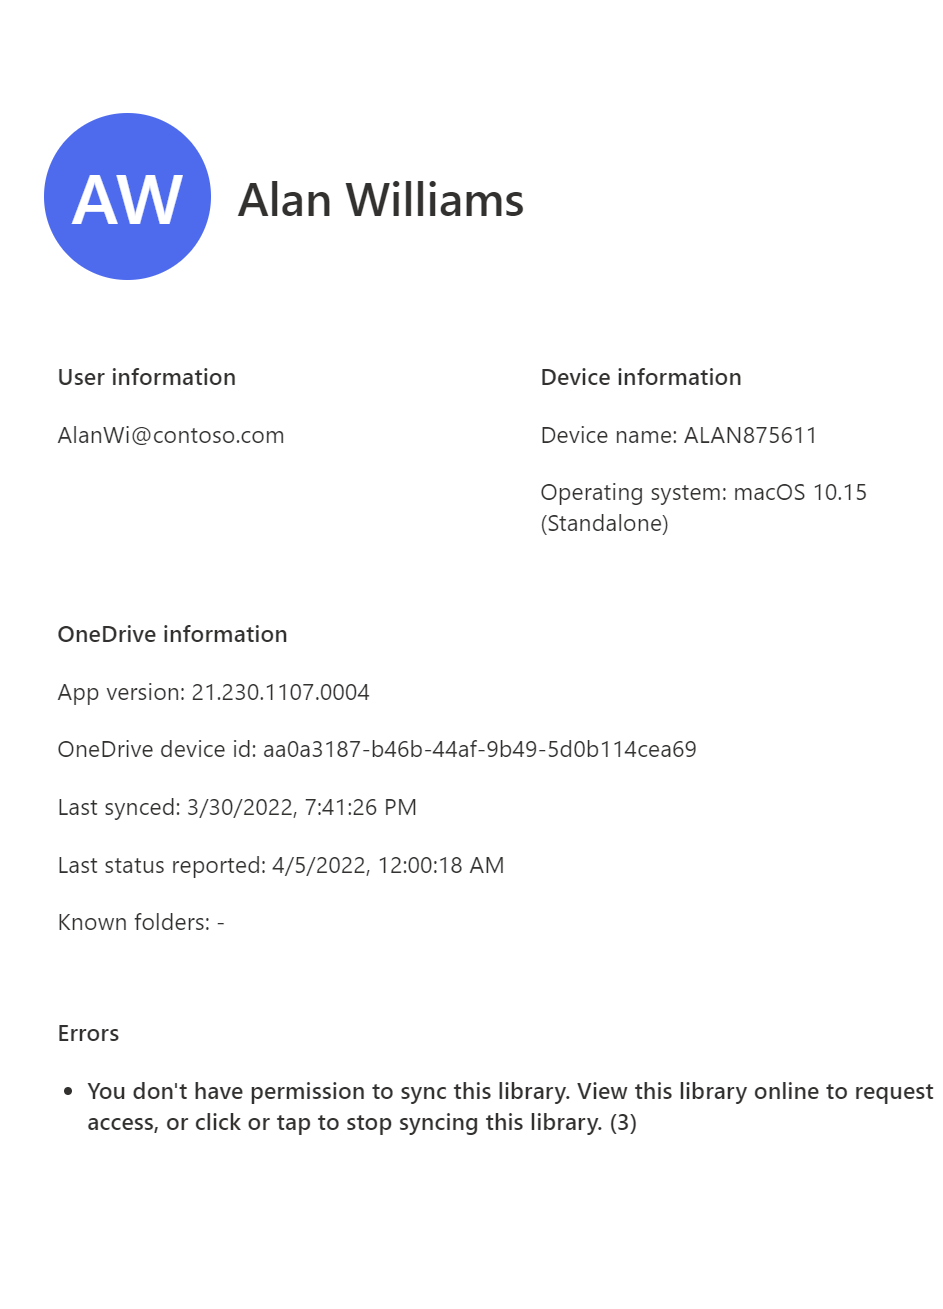
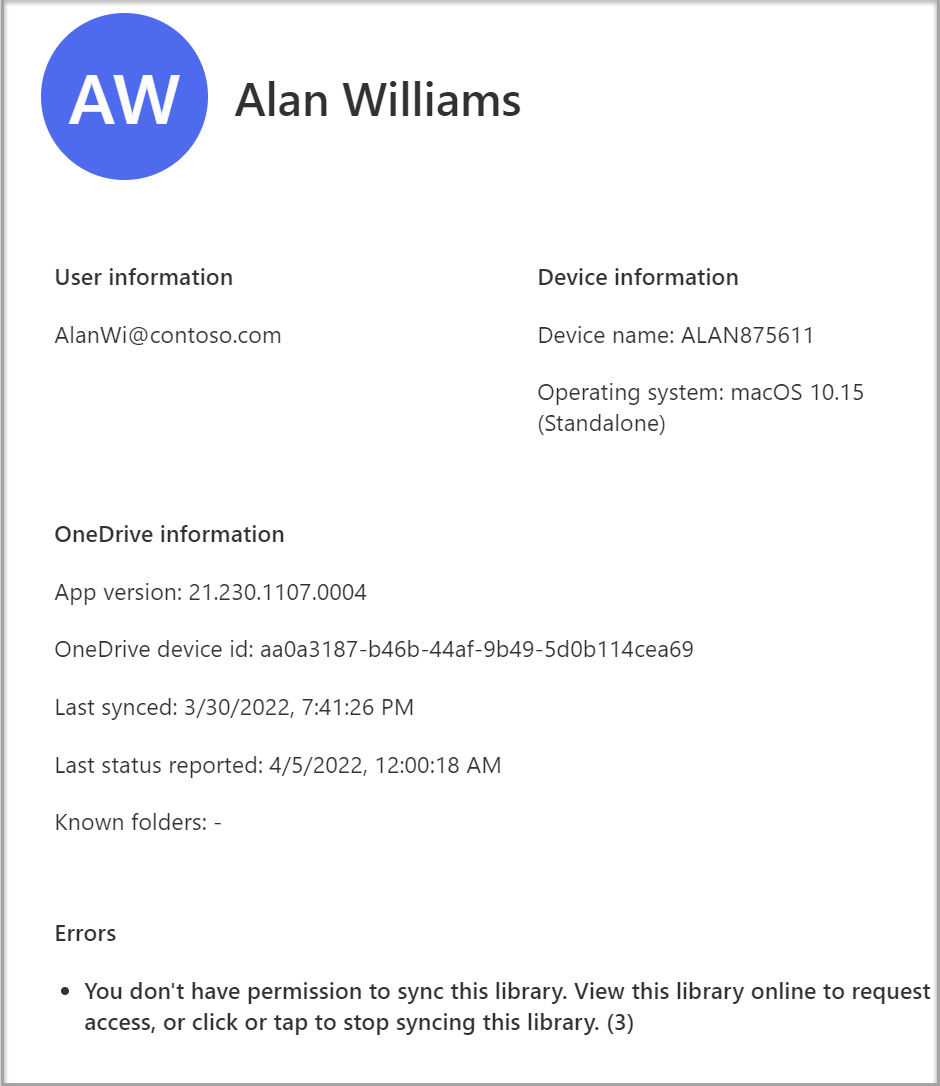
updated synchealth
Updating image sizes and reformatting details.

diff --git a/OneDrive/sync-health.md b/OneDrive/sync-health.md
@@ -73,13 +73,10 @@ This tab provides how-to steps for enabling sync reports on Windows devices.
 
     :::image type="content" source="media/enable-preview.png" alt-text="Screenshot of enable preview features button.":::
 
-    The OneDrive sync health dashboard appears.
-
-   :::image type="content" source="media/sync-home.png" alt-text="Screenshot of OneDrive sync health dashboard.":::
-
 5. Enable the OneDrive EnableSyncAdminReports Group Policy Object (GPO).
 
-    **You must enable this setting on the devices from which you want to get reports.** This setting has does not affect  users. We recommend a gradual rollout starting with a few test devices per day, then up to 100 devices per day, then gradually up to 10,000 devices per day until you finish.
+    > [!IMPORTANT]
+    > **You must enable this setting on the devices from which you want to get reports.** This setting has does not affect  users. We recommend a gradual rollout starting with a few test devices per day, then up to 100 devices per day, then gradually up to 10,000 devices per day until you finish.
 
     You can enable this setting in multiple ways:
 
@@ -111,10 +108,10 @@ This tab provides how-to steps for enabling sync reports on Windows devices.
 
     - Choose **Enable sync health reporting for OneDrive**.
 
-       > [!IMPORTANT]
-       > After you enable the EnableSyncAdminReports setting on devices, it takes up to three days for reports to be available.
-
     - Select **Enabled** and then press **OK**.
+
+> [!IMPORTANT]
+> After you enable the EnableSyncAdminReports setting on devices, it takes up to three days for reports to be available.
 
 # [macOS](#tab/macos)
 
@@ -129,10 +126,6 @@ This tab provides how-to steps for enabling sync reports on macOS devices.
 4. Select **Enable preview features** to accept the license terms.
 
     :::image type="content" source="media/enable-preview.png" alt-text="Screenshot of enable preview features button.":::
-
-    The OneDrive sync health dashboard appears.
-
-   :::image type="content" source="media/sync-home.png" alt-text="Screenshot of OneDrive sync health dashboard.":::
 
 5. In the left navigation menu, select **Settings**.
 
@@ -155,6 +148,9 @@ This tab provides how-to steps for enabling sync reports on macOS devices.
 10. Refresh the preferences cache.
 
 11. On the next start of OneDrive, the new setting will be picked up.
+
+> [!IMPORTANT]
+> After you enable the EnableSyncAdminReports setting on devices, it takes up to three days for reports to be available.
 
 ---
 
@@ -207,9 +203,9 @@ This table provides a summary of the information found in each column of the **D
 
 Customize your view of which devices show up on the dashboard by using the filter option in the command bar. Standard filters include "all devices" where you can see every device and "devices with errors" where you'll only see devices with errors. 
 
-You can easily create a custom filter with your own conditions. From the command bar, select **Filter** > **New filter** to open the **Custom filter** panel. Name your filter and select your desired conditions. If you'd like to filter by app version, be sure that you enter the complete version number including periods. Afterwards, select **Create** to use your new filter.
+You can easily create a custom filter with your own conditions. From the command bar, select **Filter** > **New filter** to open the **Custom filter** panel. Name your filter and select your desired conditions. If you'd like to filter by app version, be sure that you enter the complete sync app version number including periods. Afterwards, select **Create** to use your new filter.
 
-:::image type="content" source="media/custom-filter-pane.png" alt-text="Image depicting custom filter pane in dashboard":::
+[![Screenshot of the custom filter panel.](media/custom-filter-inline.png) ](media/custom-filter-pane.png#lightbox)
 
 When someone in your organization reports a problem with syncing files to OneDrive, you can investigate quickly without having to ask for extra details of the error message via Microsoft Teams chat or Outlook email. Select a user to see more information on their device and sync status. This detailed view lets you see a user's essential OneDrive information including any errors they might be experiencing.
 
